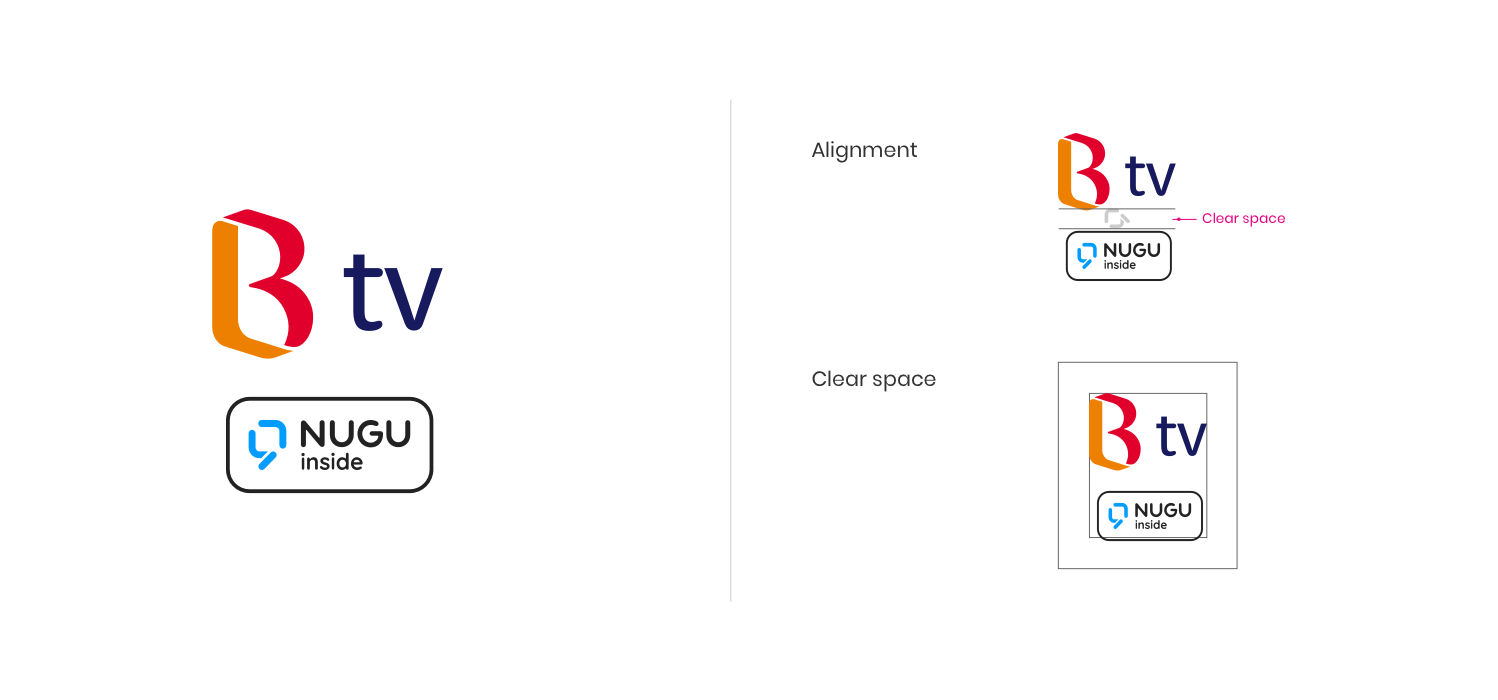
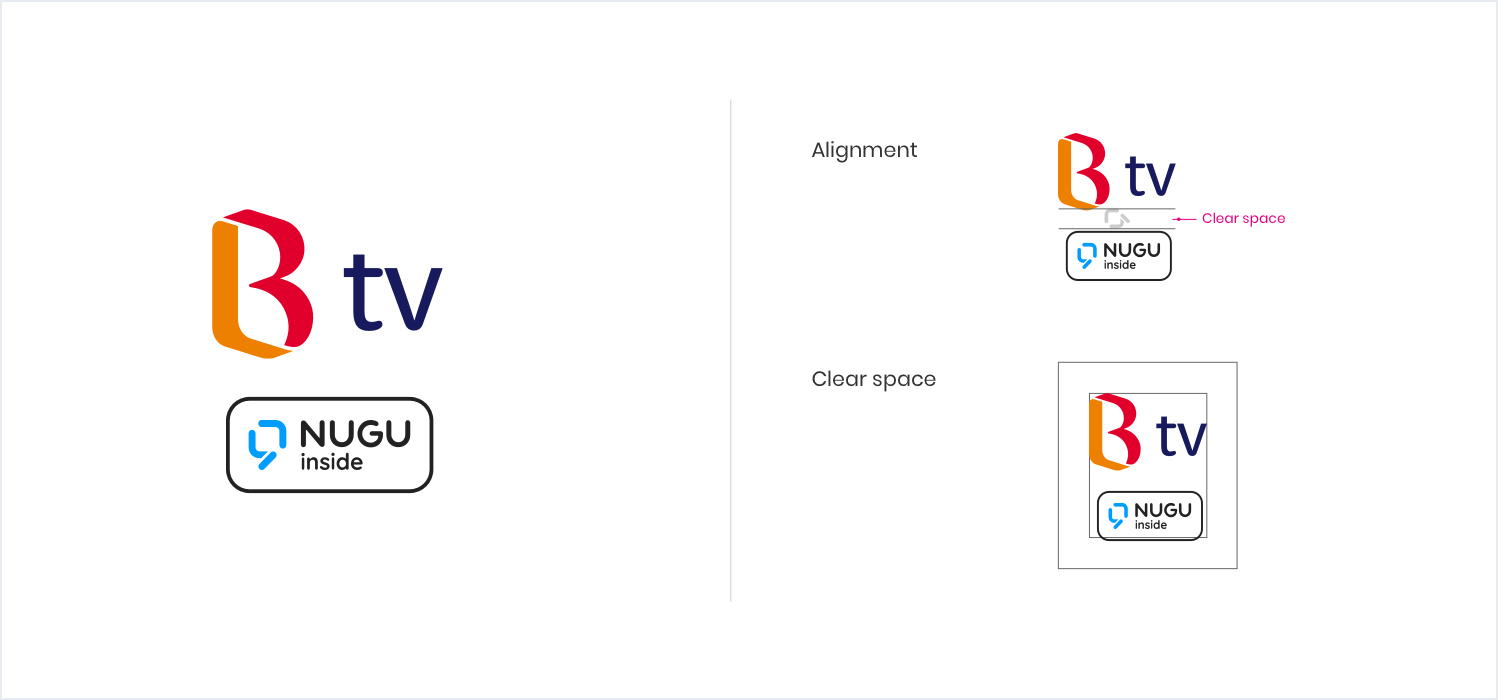
GitBook: [for_2_0] one page and 6 assets modified

Changed region(s): [[0.0, 0.99, 1.0, 1.0], [0.9826, 0.0, 1.0, 0.03], [0.0, 0.0, 0.0307, 0.03]]

diff --git a/sdk-design-guide/nugu-inside.md b/sdk-design-guide/nugu-inside.md
@@ -35,9 +35,11 @@ NUGU inside 배경은 기기나 제품, 재질 등에 따라 맞게 적용해야
 
 서비스 브랜드 로고와 NUGU inside 마크가 조합된 형태는 브랜드 로고 우측이나 하단에 마크가 위치하며, 예시와 같은 간격을 두고 사용합니다. 
 
-![&#xAC00;&#xB85C; &#xC870;&#xD569;&#xD615;](../.gitbook/assets/inside_guide_btv.png)
+![&#xAC00;&#xB85C; &#xC870;&#xD569;&#xD615;](../.gitbook/assets/inside_guide_btv%20%283%29.png)
 
 ![&#xC138;&#xB85C; &#xC870;&#xD569;&#xD615;](../.gitbook/assets/inside_guide_btv2.png)
+
+
 
 ### 기기 적용
 
